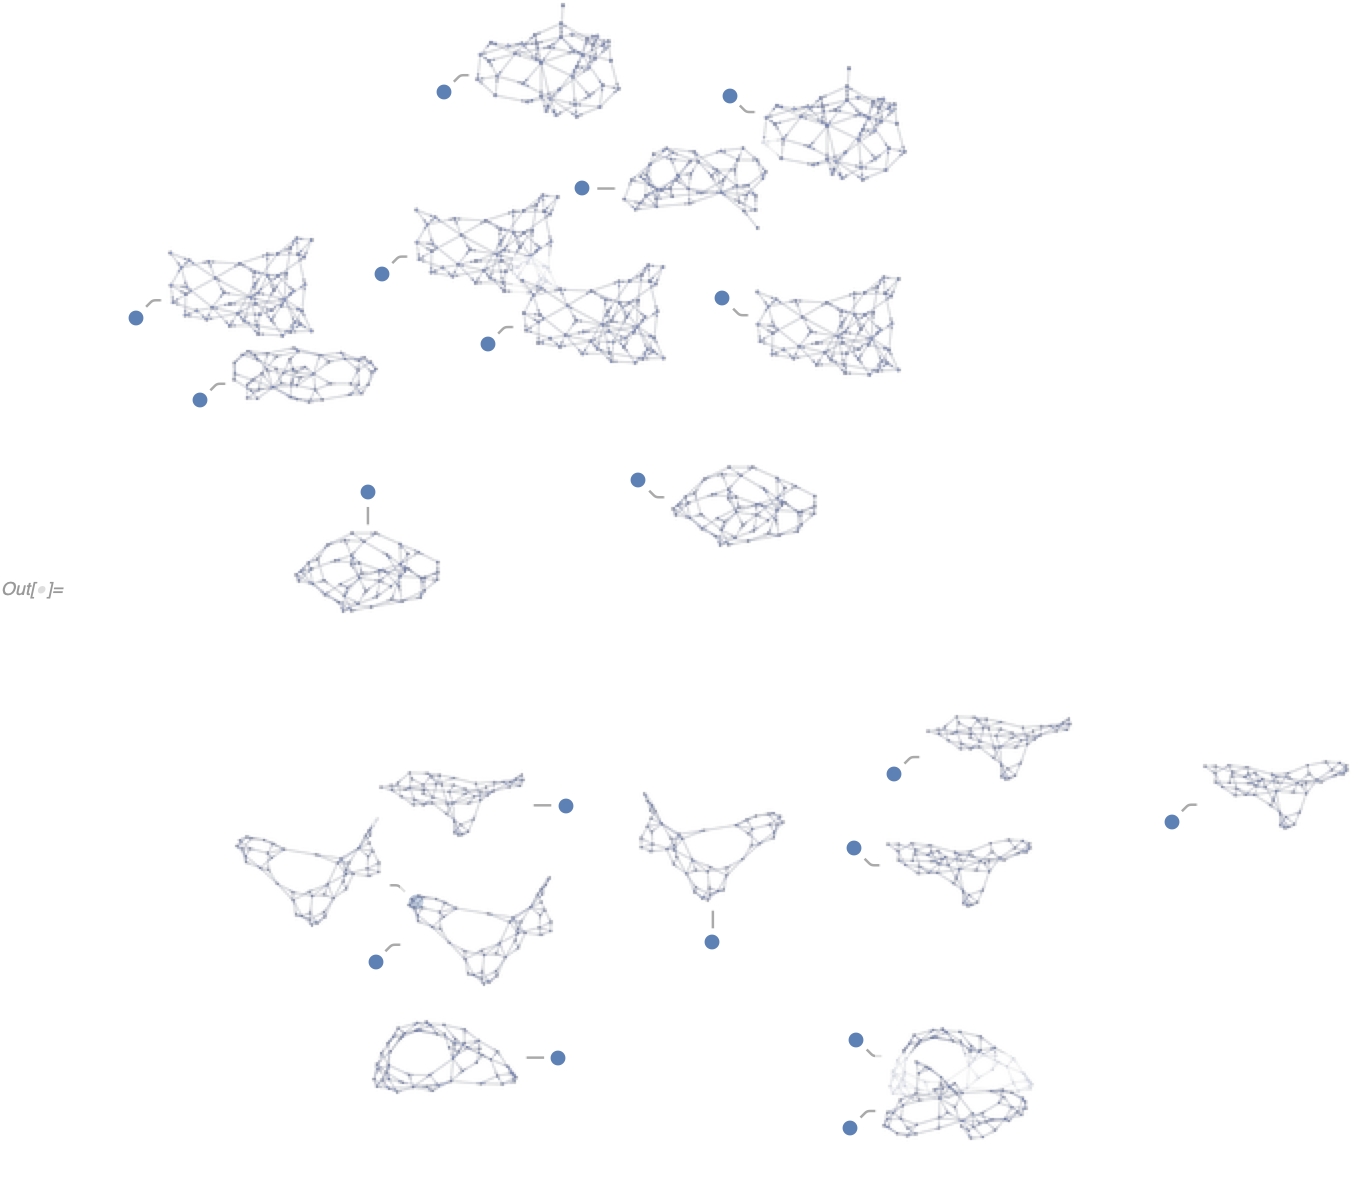
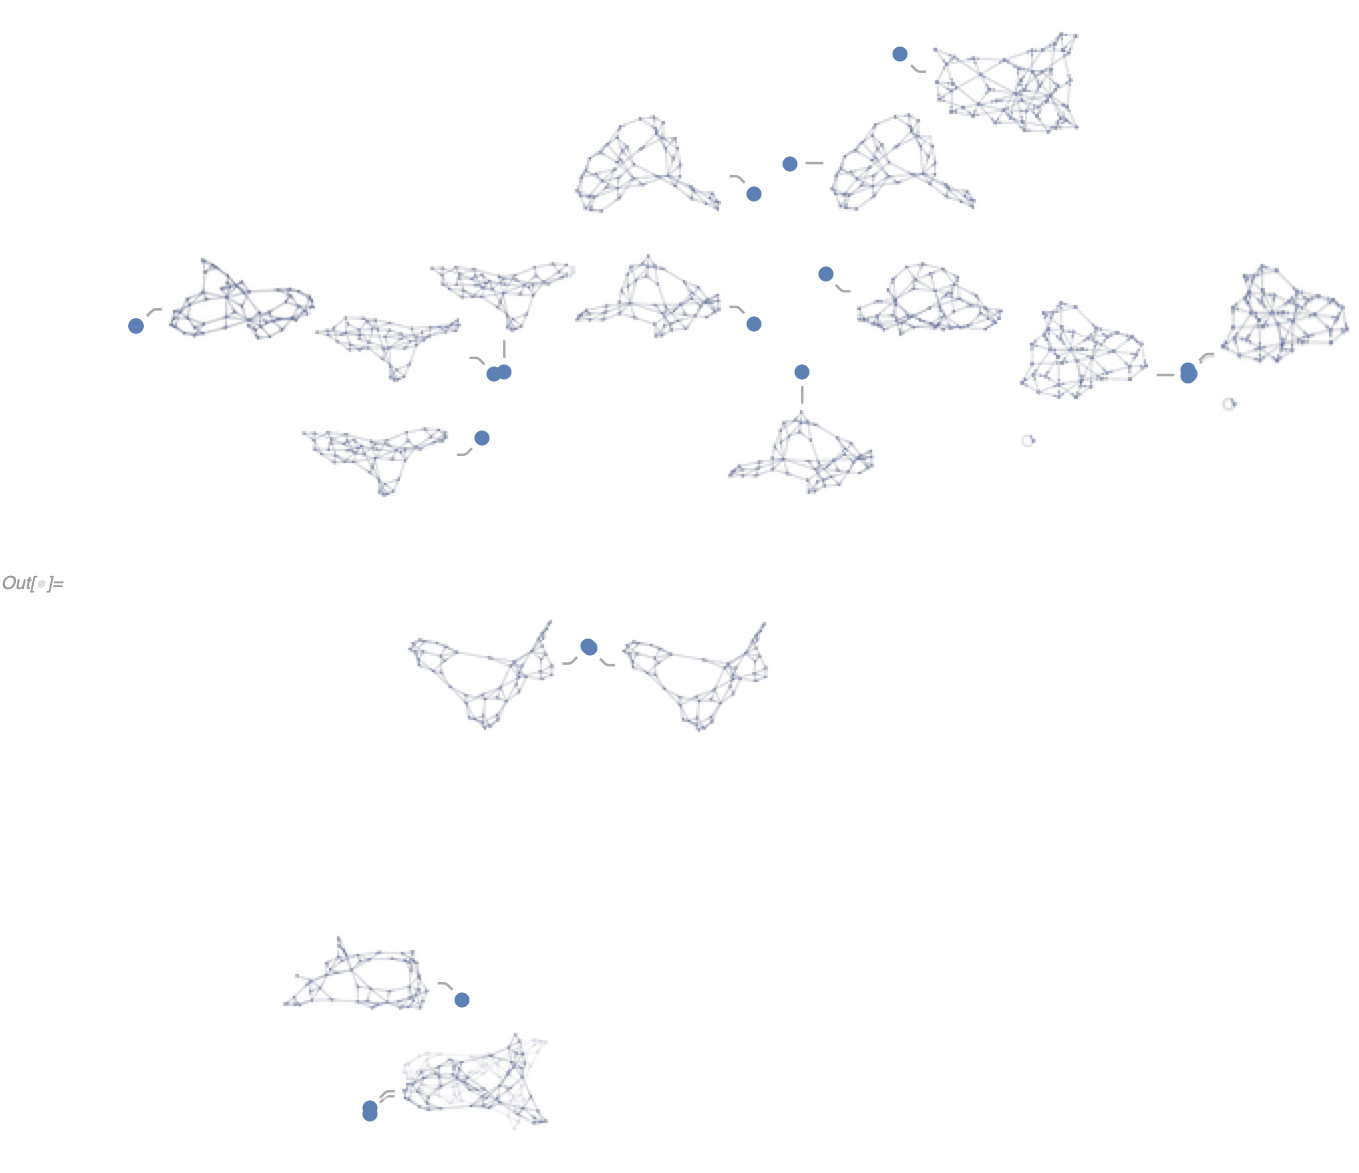
seedrandom and doc fix

diff --git a/Documentation/SymbolsAndFunctions/WolframModelAndWolframModelEvolutionObject/Properties/FeatureAssociation.md b/Documentation/SymbolsAndFunctions/WolframModelAndWolframModelEvolutionObject/Properties/FeatureAssociation.md
@@ -41,11 +41,11 @@ This property is useful for applying machine learning to Wolfram Models explorat
 In[] := BlockRandom[
   FeatureSpacePlot[#["FeatureAssociation"] -> Image[#["FinalStatePlot"], ImageSize -> Tiny] & /@
     (WolframModel[{{x, y}, {x, z}} -> {{x, z}, {x, w}, {y, w}, {z, w}}, #, 6] &) /@
-      Table[RandomHypergraph[{3, 2}, 2], 10], LabelingFunction -> Callout]
-  ]
+      Table[RandomHypergraph[{3, 2}, 2], 10], LabelingFunction -> Callout], RandomSeeding -> 3
+]
 ```
 
-<img src="/Documentation/Images/FeatureAssociationFeatureSpacePlot.png" width="815.4">
+<img src="/Documentation/Images/FeatureAssociationFeatureSpacePlot.png" width="684.6">
 
 For [Multiway Systems](/Documentation/SymbolsAndFunctions/WolframModelAndWolframModelEvolutionObject/Properties/
 MultiwayQ.md) it only computes features associated with the [causal graph](/Documentation/SymbolsAndFunctions/

diff --git a/Documentation/SymbolsAndFunctions/WolframModelAndWolframModelEvolutionObject/Properties/FeatureVector.md b/Documentation/SymbolsAndFunctions/WolframModelAndWolframModelEvolutionObject/Properties/FeatureVector.md
@@ -22,8 +22,8 @@ This property is useful for applying machine learning to Wolfram Models explorat
 In[] := BlockRandom[
   FeatureSpacePlot[#["FeatureVector"] -> Image[#["FinalStatePlot"], ImageSize -> Tiny] & /@
     (WolframModel[{{x, y}, {x, z}} -> {{x, z}, {x, w}, {y, w}, {z, w}}, #, 6] &) /@
-      Table[RandomHypergraph[{3, 2}, 2], 10], LabelingFunction -> Callout]
-  ]
+      Table[RandomHypergraph[{3, 2}, 2], 10], LabelingFunction -> Callout], RandomSeeding -> 2
+]
 ```
 
 <img src="/Documentation/Images/FeatureVectorFeatureSpacePlot.png" width="815.4">

diff --git a/Documentation/SymbolsAndFunctions/WolframModelAndWolframModelEvolutionObject/WolframModelAndWolframModelEvolutionObject.md b/Documentation/SymbolsAndFunctions/WolframModelAndWolframModelEvolutionObject/WolframModelAndWolframModelEvolutionObject.md
@@ -396,6 +396,7 @@ returns values for all properties even if terminated due to time constraint), an
 * [Final Element Counts](Properties/FinalElementCounts.md)
 * [Total Element Counts](Properties/TotalElementCounts.md)
 * [Rules](Properties/Rules.md)
+* [Feature Association](Properties/FeatureAssociation.md)
 * [Feature Vector](Properties/FeatureVector.md)
 * [Version](Properties/Version.md)
 
